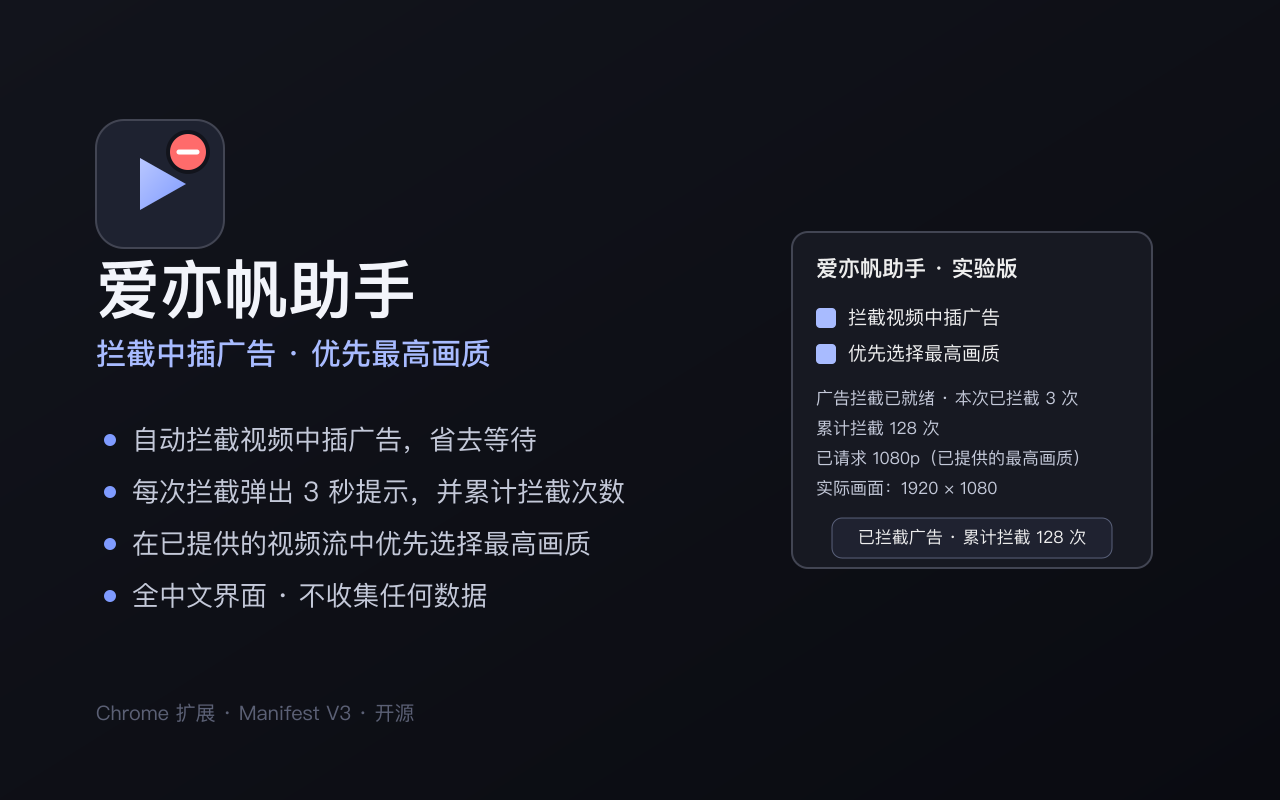
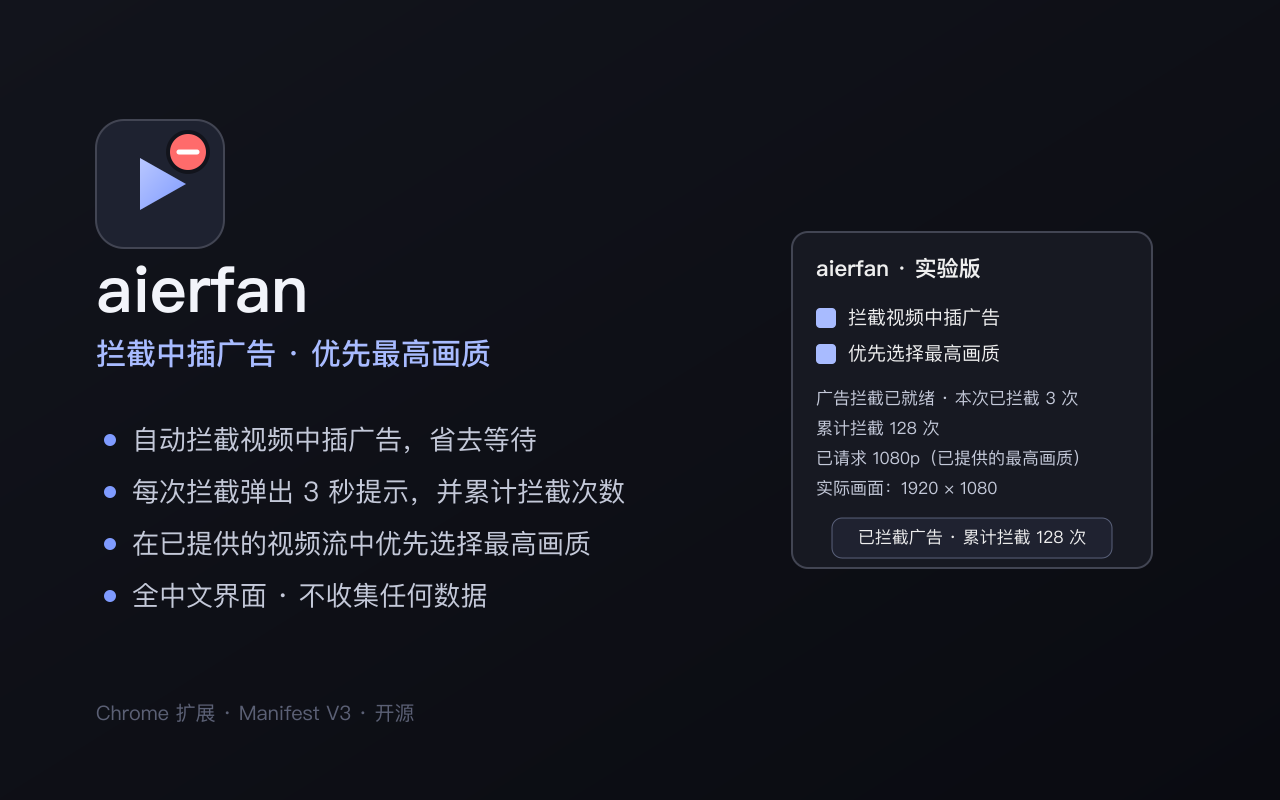
Rename extension to aierfan

Changed region(s): [[0.0625, 0.3125, 0.3438, 0.4062], [0.625, 0.3125, 0.8125, 0.3438]]

diff --git a/extension/content.js b/extension/content.js
@@ -71,7 +71,7 @@
       summary{cursor:pointer;padding:10px 14px;font-weight:650}section{padding:0 14px 12px}label{display:flex;gap:8px;align-items:center;margin:9px 0}input{accent-color:#a8bbff}p{margin:6px 0;color:#c4c9d9;font-size:12px}#error{color:#ffbb99}button{font:inherit;background:#303548;color:#eee;border:1px solid #596079;border-radius:5px;padding:4px 8px;cursor:pointer}
       .toast{position:fixed;left:50%;bottom:84px;transform:translateX(-50%) translateY(8px);background:rgba(23,25,34,.94);color:#eee;border:1px solid #424553;border-radius:10px;padding:10px 16px;font:14px/1.4 system-ui,sans-serif;box-shadow:0 8px 30px #0008;opacity:0;pointer-events:none;transition:opacity .25s ease,transform .25s ease;max-width:80vw;text-align:center}
       .toast.show{opacity:1;transform:translateX(-50%) translateY(0)}
-    </style><div id="toast" class="toast" role="status" aria-live="polite"></div><details><summary>爱亦帆助手 · 实验版</summary><section>
+    </style><div id="toast" class="toast" role="status" aria-live="polite"></div><details><summary>aierfan · 实验版</summary><section>
       <label><input type="checkbox" id="ads">拦截视频中插广告</label>
       <label><input type="checkbox" id="quality">优先选择最高画质</label>
       <p id="status" role="status"></p><p id="total"></p><p id="stream"></p><p id="decoded"></p><p id="error"></p>

diff --git a/PRIVACY.md b/PRIVACY.md
@@ -1,10 +1,10 @@
-# Privacy Policy — 爱亦帆助手 (Aiyifan Ads-Free)
+# Privacy Policy — aierfan (Aiyifan Ads-Free)
 
 _Last updated: 14 November 2026_
 
 ## English
 
-爱亦帆助手 ("the extension") does not collect, store, transmit, or sell any
+aierfan ("the extension") does not collect, store, transmit, or sell any
 personal or sensitive user data.
 
 - **No data collection.** The extension makes no network requests of its own and
@@ -19,7 +19,7 @@ personal or sensitive user data.
 
 ## 简体中文
 
-爱亦帆助手（“本扩展”）不收集、不存储、不传输、不出售任何个人或敏感用户数据。
+aierfan（“本扩展”）不收集、不存储、不传输、不出售任何个人或敏感用户数据。
 
 - **不收集数据。** 本扩展自身不发起任何网络请求，不向开发者或任何第三方发送信息。
 - **仅本地设置。** 使用 Chrome 的 `storage` 权限，仅用于在你自己的设备上保存你的开关
